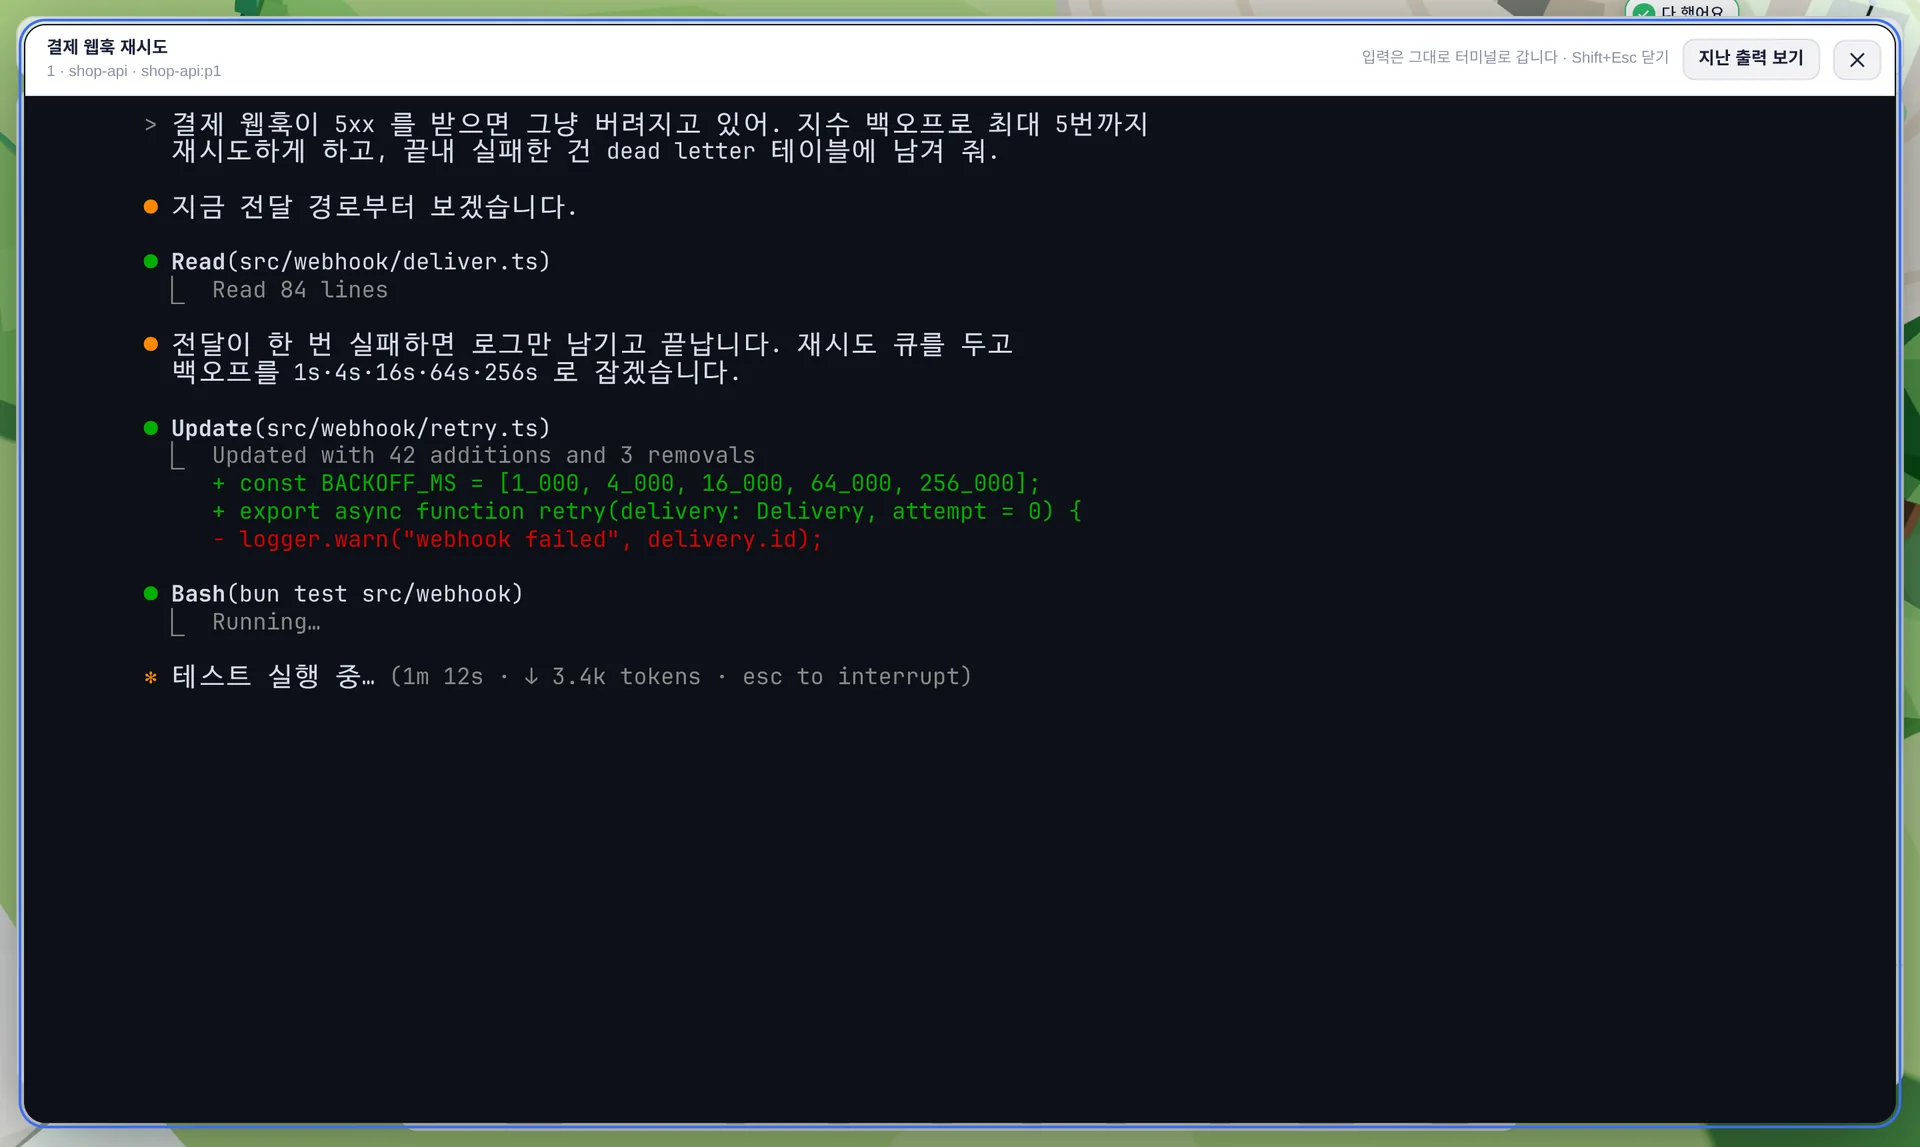
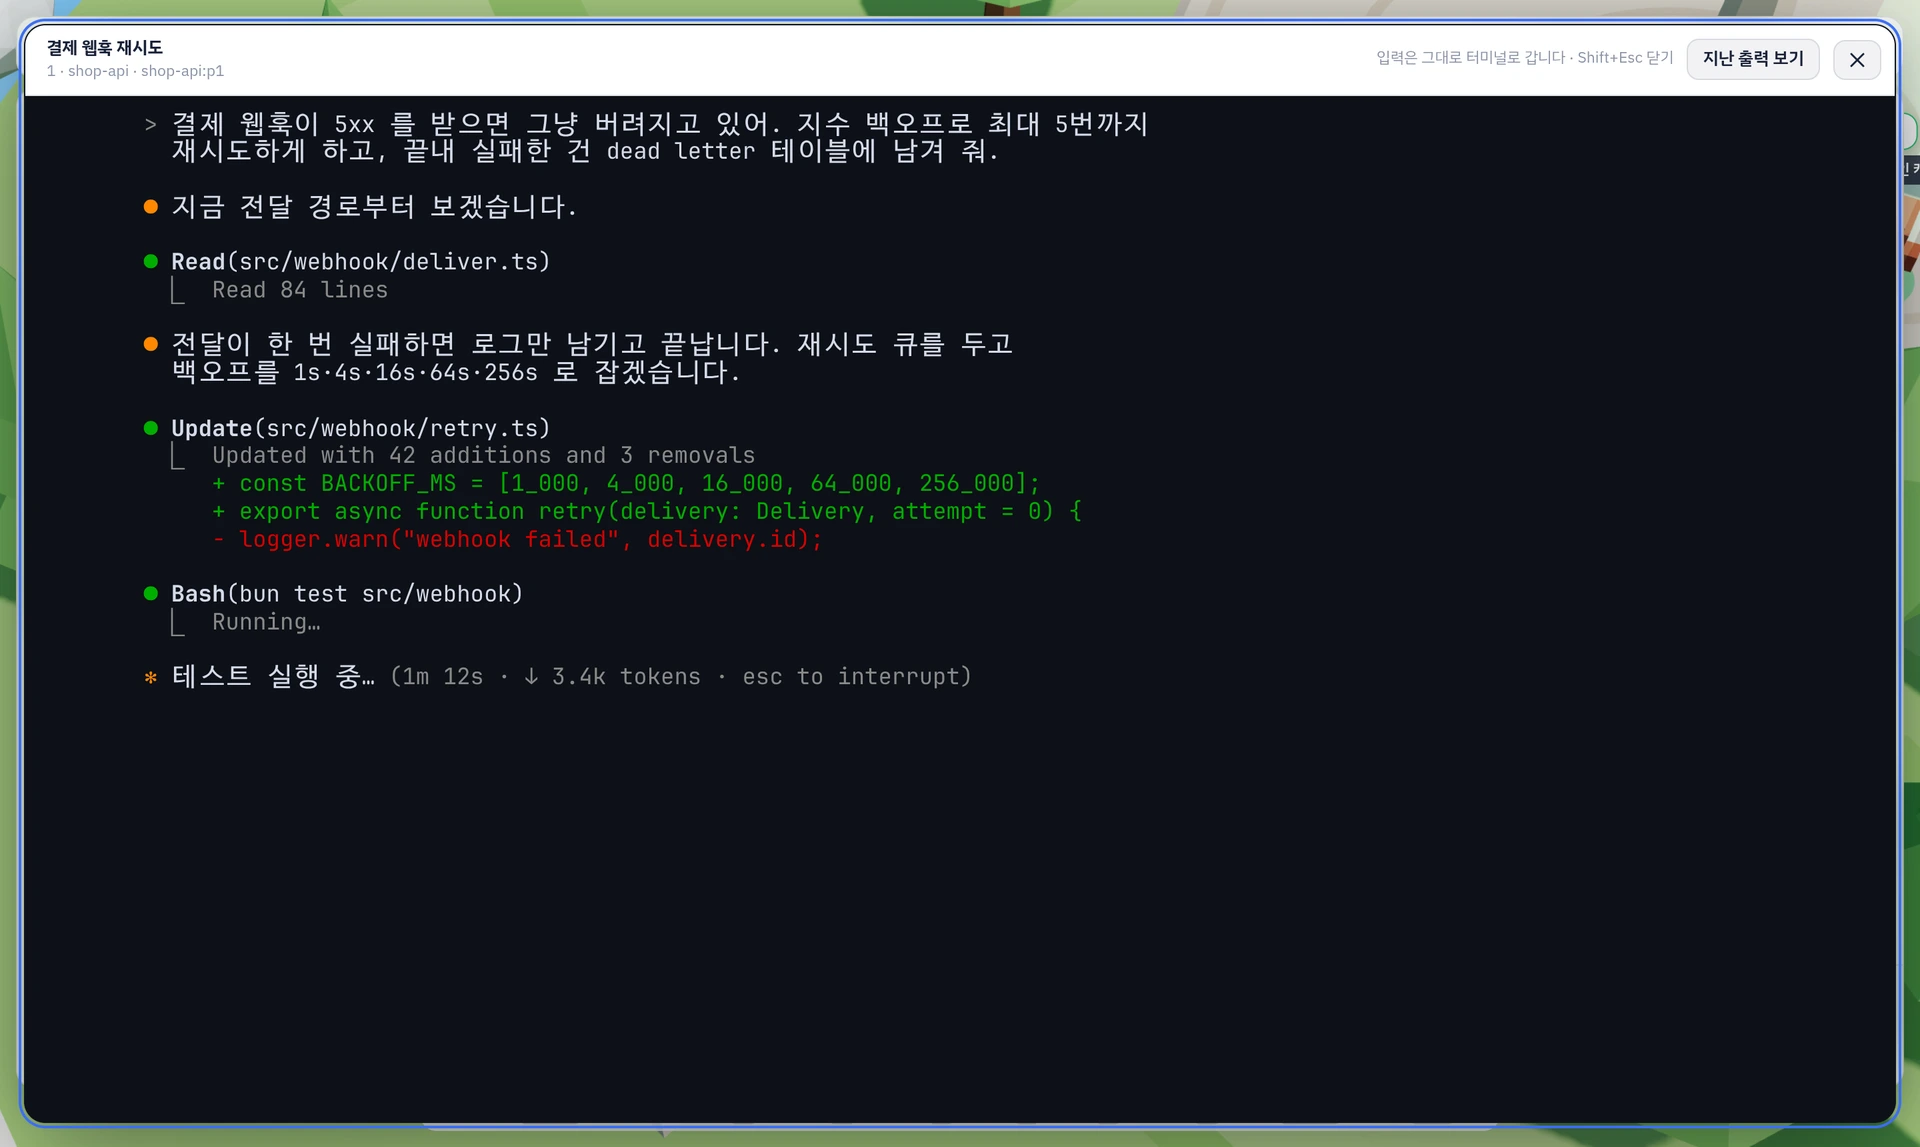
README·홈페이지: 글꼴을 바꾼 화면으로 그림을 다시 찍는다

diff --git a/docs/index.html b/docs/index.html
@@ -511,7 +511,7 @@ html.js .reveal.in { opacity: 1; transform: none; }
       </p></div>
     </div>
     <figure class="reveal" style="max-width:420px;margin-inline:auto">
-      <div class="shot"><img src="img/build.webp" width="760" height="954" loading="lazy" alt="집 짓기 대화상자. 폴더, 집 이름, 워크트리, 주민(에이전트), 주민 이름, 실행 인자, 첫 지시 칸이 있다"></div>
+      <div class="shot"><img src="img/build.webp" width="760" height="965" loading="lazy" alt="집 짓기 대화상자. 폴더, 집 이름, 워크트리, 주민(에이전트), 주민 이름, 실행 인자, 첫 지시 칸이 있다"></div>
     </figure>
   </div>
 </section>
